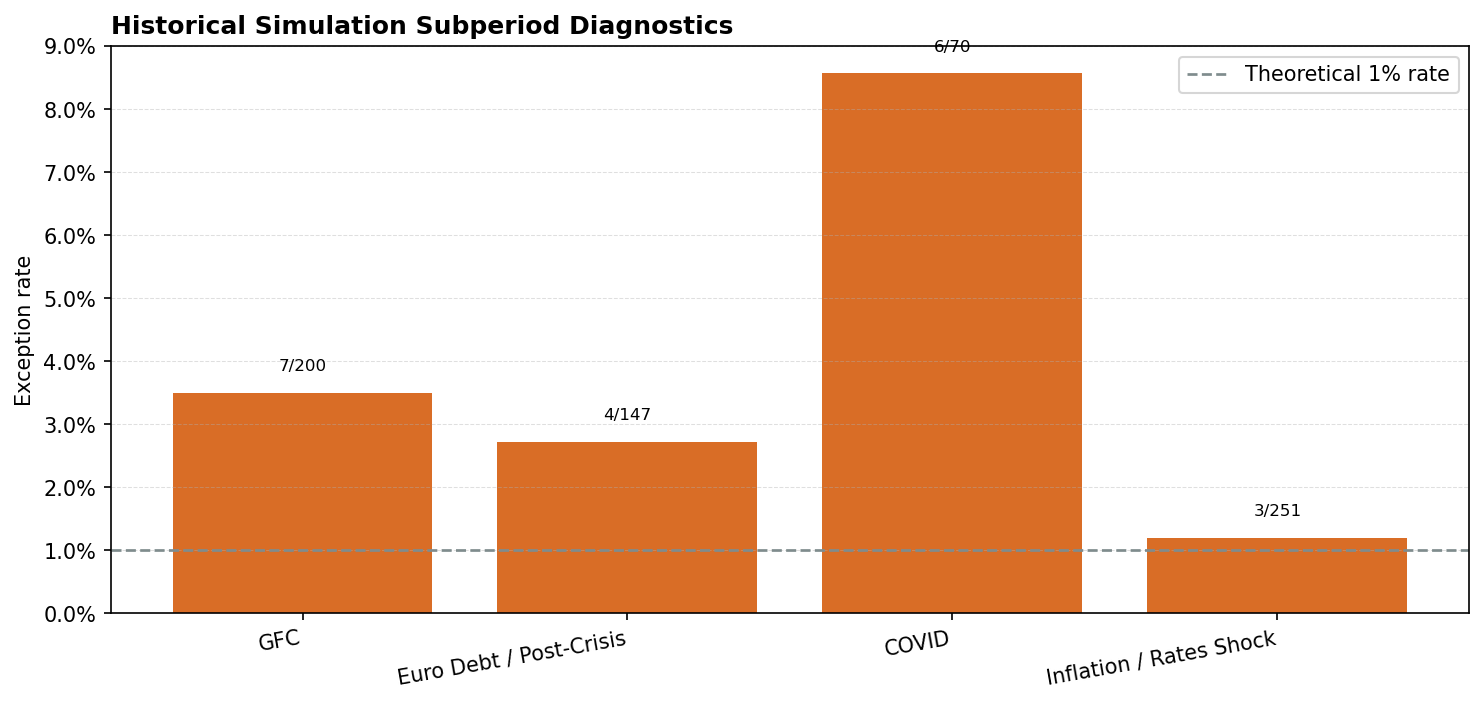
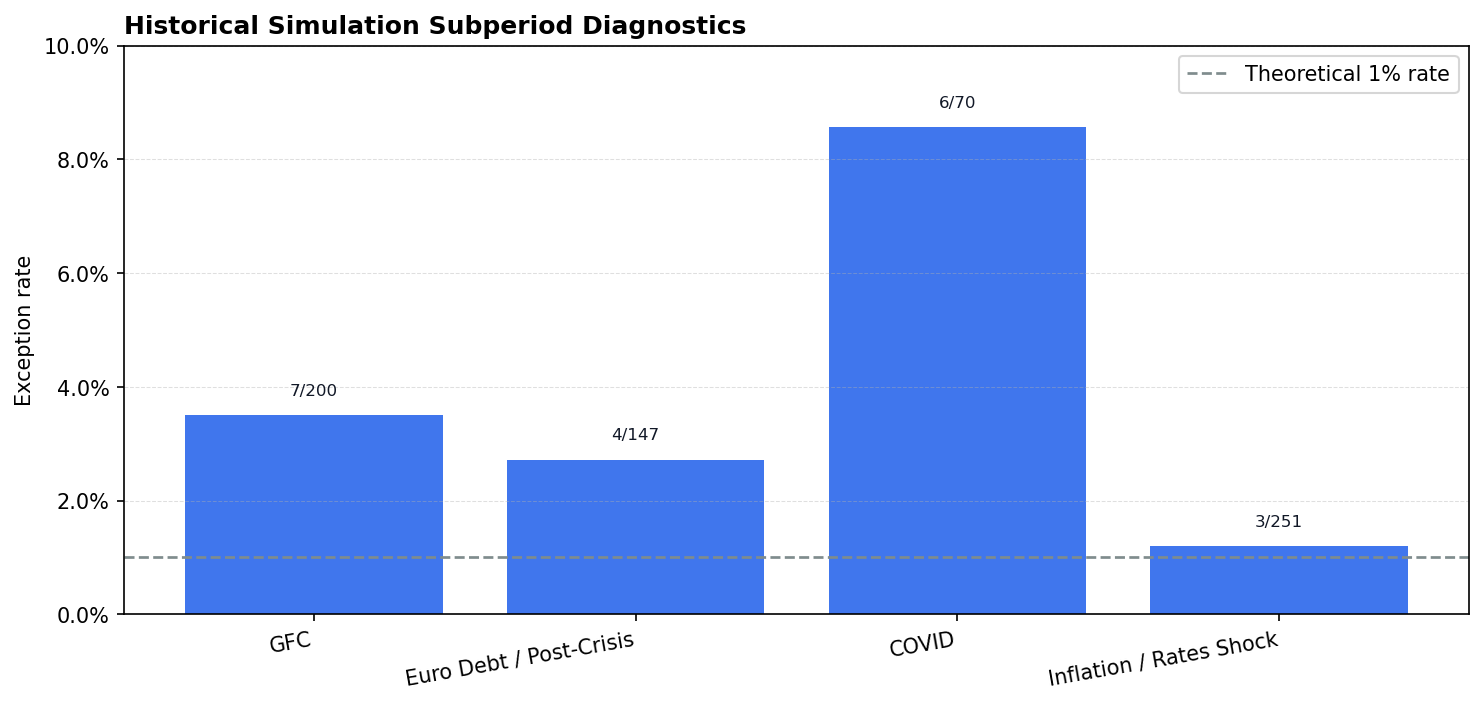
Update HistSim subperiod chart styling

diff --git a/src/var_methods/historical_sim_analysis.py b/src/var_methods/historical_sim_analysis.py
@@ -488,11 +488,30 @@ def plot_subperiod_diagnostics(subperiod_df: pd.DataFrame) -> None:
 
     fig, ax = plt.subplots(figsize=(10, 4.8))
     x = np.arange(len(ordered))
-    ax.bar(x, ordered["exception_rate"], color="#d35400", alpha=0.85)
+    bars = ax.bar(x, ordered["exception_rate"], color="#2563eb", alpha=0.88)
     ax.axhline(1.0 - ALPHA, color="#7f8c8d", linestyle="--", linewidth=1.3, label="Theoretical 1% rate")
 
-    for i, row in enumerate(ordered.itertuples(index=False)):
-        ax.text(i, row.exception_rate + 0.003, f"{row.observed_exceptions}/{row.observations}", ha="center", va="bottom", fontsize=8)
+    top_label_padding = 0.003
+    y_top = max(float(ordered["exception_rate"].max()) + 0.012, 0.10)
+    ax.set_ylim(0, y_top)
+    for bar, row in zip(bars, ordered.itertuples(index=False)):
+        label = f"{row.observed_exceptions}/{row.observations}"
+        y = row.exception_rate + top_label_padding
+        va = "bottom"
+        color = "#111827"
+        if y > y_top - 0.006:
+            y = row.exception_rate - 0.006
+            va = "top"
+            color = "white"
+        ax.text(
+            bar.get_x() + bar.get_width() / 2,
+            y,
+            label,
+            ha="center",
+            va=va,
+            fontsize=8,
+            color=color,
+        )
 
     ax.set_xticks(x)
     ax.set_xticklabels(ordered["subperiod"], rotation=10, ha="right")
